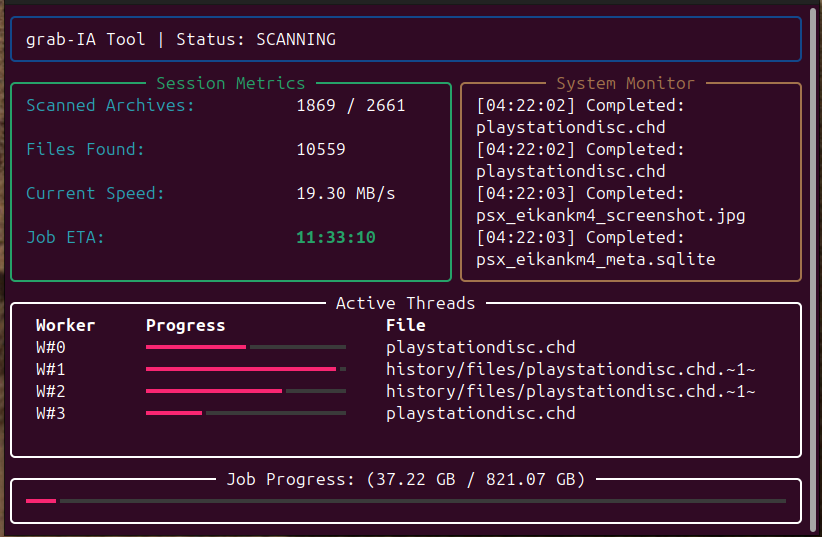
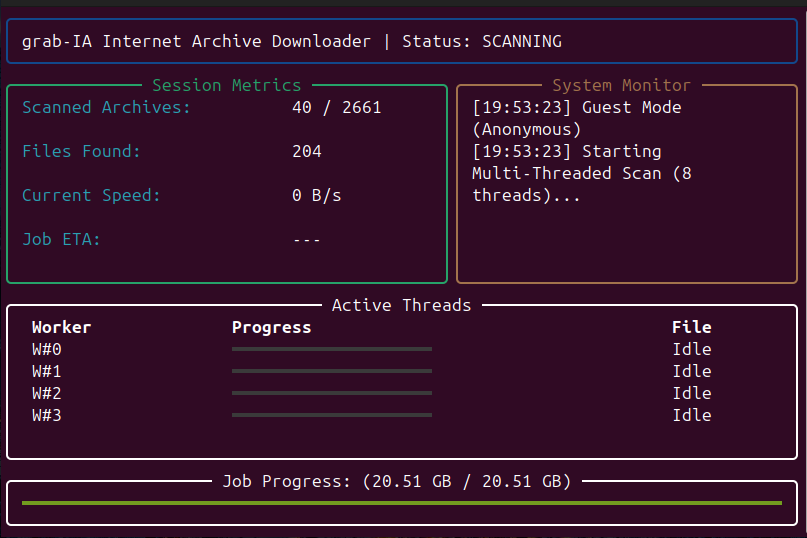
updated TUI header

diff --git a/grabIA.py b/grabIA.py
@@ -53,12 +53,10 @@ It uses a local SQLite database to ensure no bandwidth is wasted on redundant da
 It is highly recommended to run this tool in a Python Virtual Environment (venv). 
 
 1. **Clone or Save the Files:** Ensure `grabIA.py` and `grabia_core.py` are in the same directory. 
-2. **Create the Virtual Environment:** 
-   ```bash
+2. **Create the Virtual Environment:** ```bash
    python3 -m venv venv
    ```
-3. **Activate and Install Dependencies:** *Requires Python 3.8+* 
-   * On macOS/Linux: `source venv/bin/activate` 
+3. **Activate and Install Dependencies:** *Requires Python 3.8+* * On macOS/Linux: `source venv/bin/activate` 
    * On Windows: `venv\\Scripts\\activate` 
    * `pip install internetarchive rich requests python-dotenv` 
 
@@ -83,8 +81,7 @@ It is highly recommended to run this tool in a Python Virtual Environment (venv)
 
 Unlike traditional scripts that require manual file management, **grab-IA** includes a built-in deployment initializer. 
 
-**How the `deploy/` Folder Works:** 
-Every time you run the script, it checks for and maintains a `deploy/` directory: 
+**How the `deploy/` Folder Works:** Every time you run the script, it checks for and maintains a `deploy/` directory: 
 * **Environment Isolation:** It generates a standalone `requirements.txt` containing only the necessary libraries. 
 * **Code Portability:** It creates exact copies of the core logic (`grabIA.py` and `grabia_core.py`) inside the folder. 
 * **Configuration Readiness:** It ensures a basic `README.md` is present. 
@@ -148,7 +145,10 @@ def update_display(layout, engine, current_speed):
     prog_msg = f"Job Progress: ({format_size(stats['down_bytes'])} / {format_size(max(1, stats['total_bytes']))})"
     rem_bytes = max(0, stats['total_bytes'] - stats['down_bytes'])
     eta_str = f"[bold green]{format_time(rem_bytes / current_speed)}[/]" if current_speed > 50*1024 else "---"
-    layout["header"].update(Panel(f"grab-IA Tool | Status: {'SCANNING' if stats['is_scanning'] else 'DOWNLOADING'}", border_style="blue"))
+    
+    # Updated Header Line
+    layout["header"].update(Panel(f"grab-IA Internet Archive Downloader | Status: {'SCANNING' if stats['is_scanning'] else 'DOWNLOADING'}", border_style="blue"))
+    
     st = Table.grid(padding=1)
     st.add_column(style="cyan", width=25)
     st.add_row("Scanned Archives:", f"{stats['scanned_ids']} / {stats['total_ids']}")
